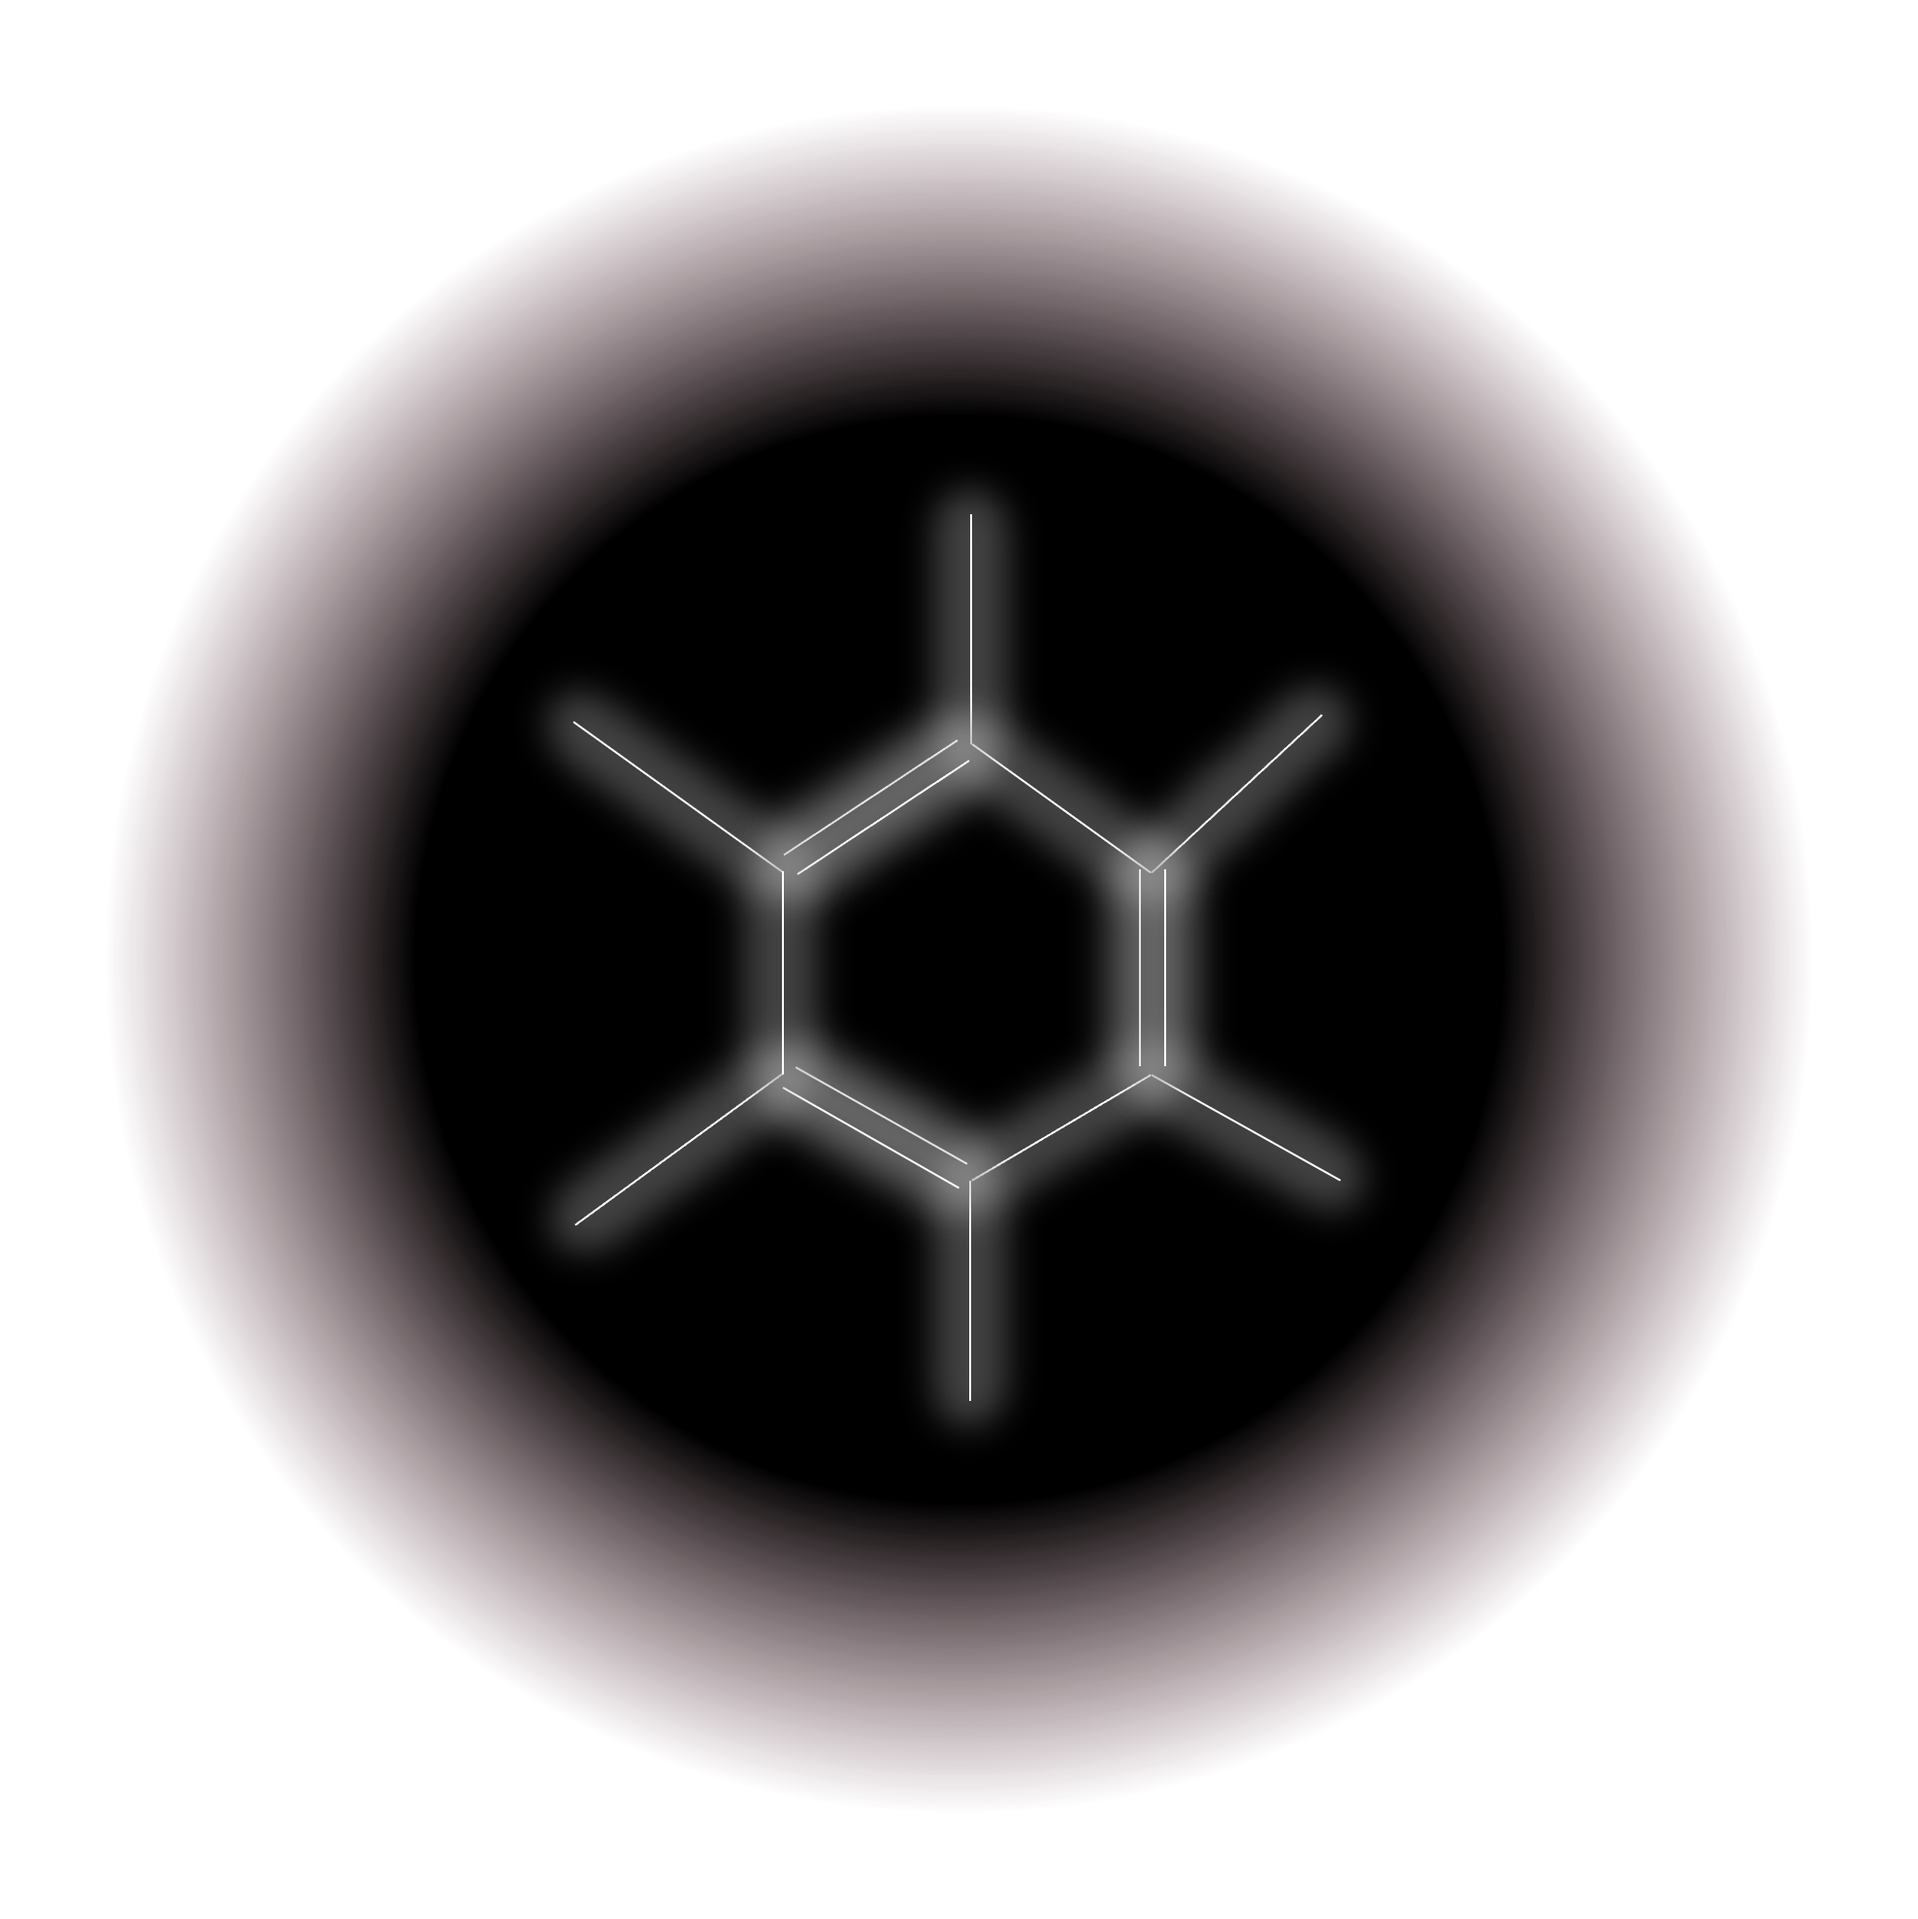
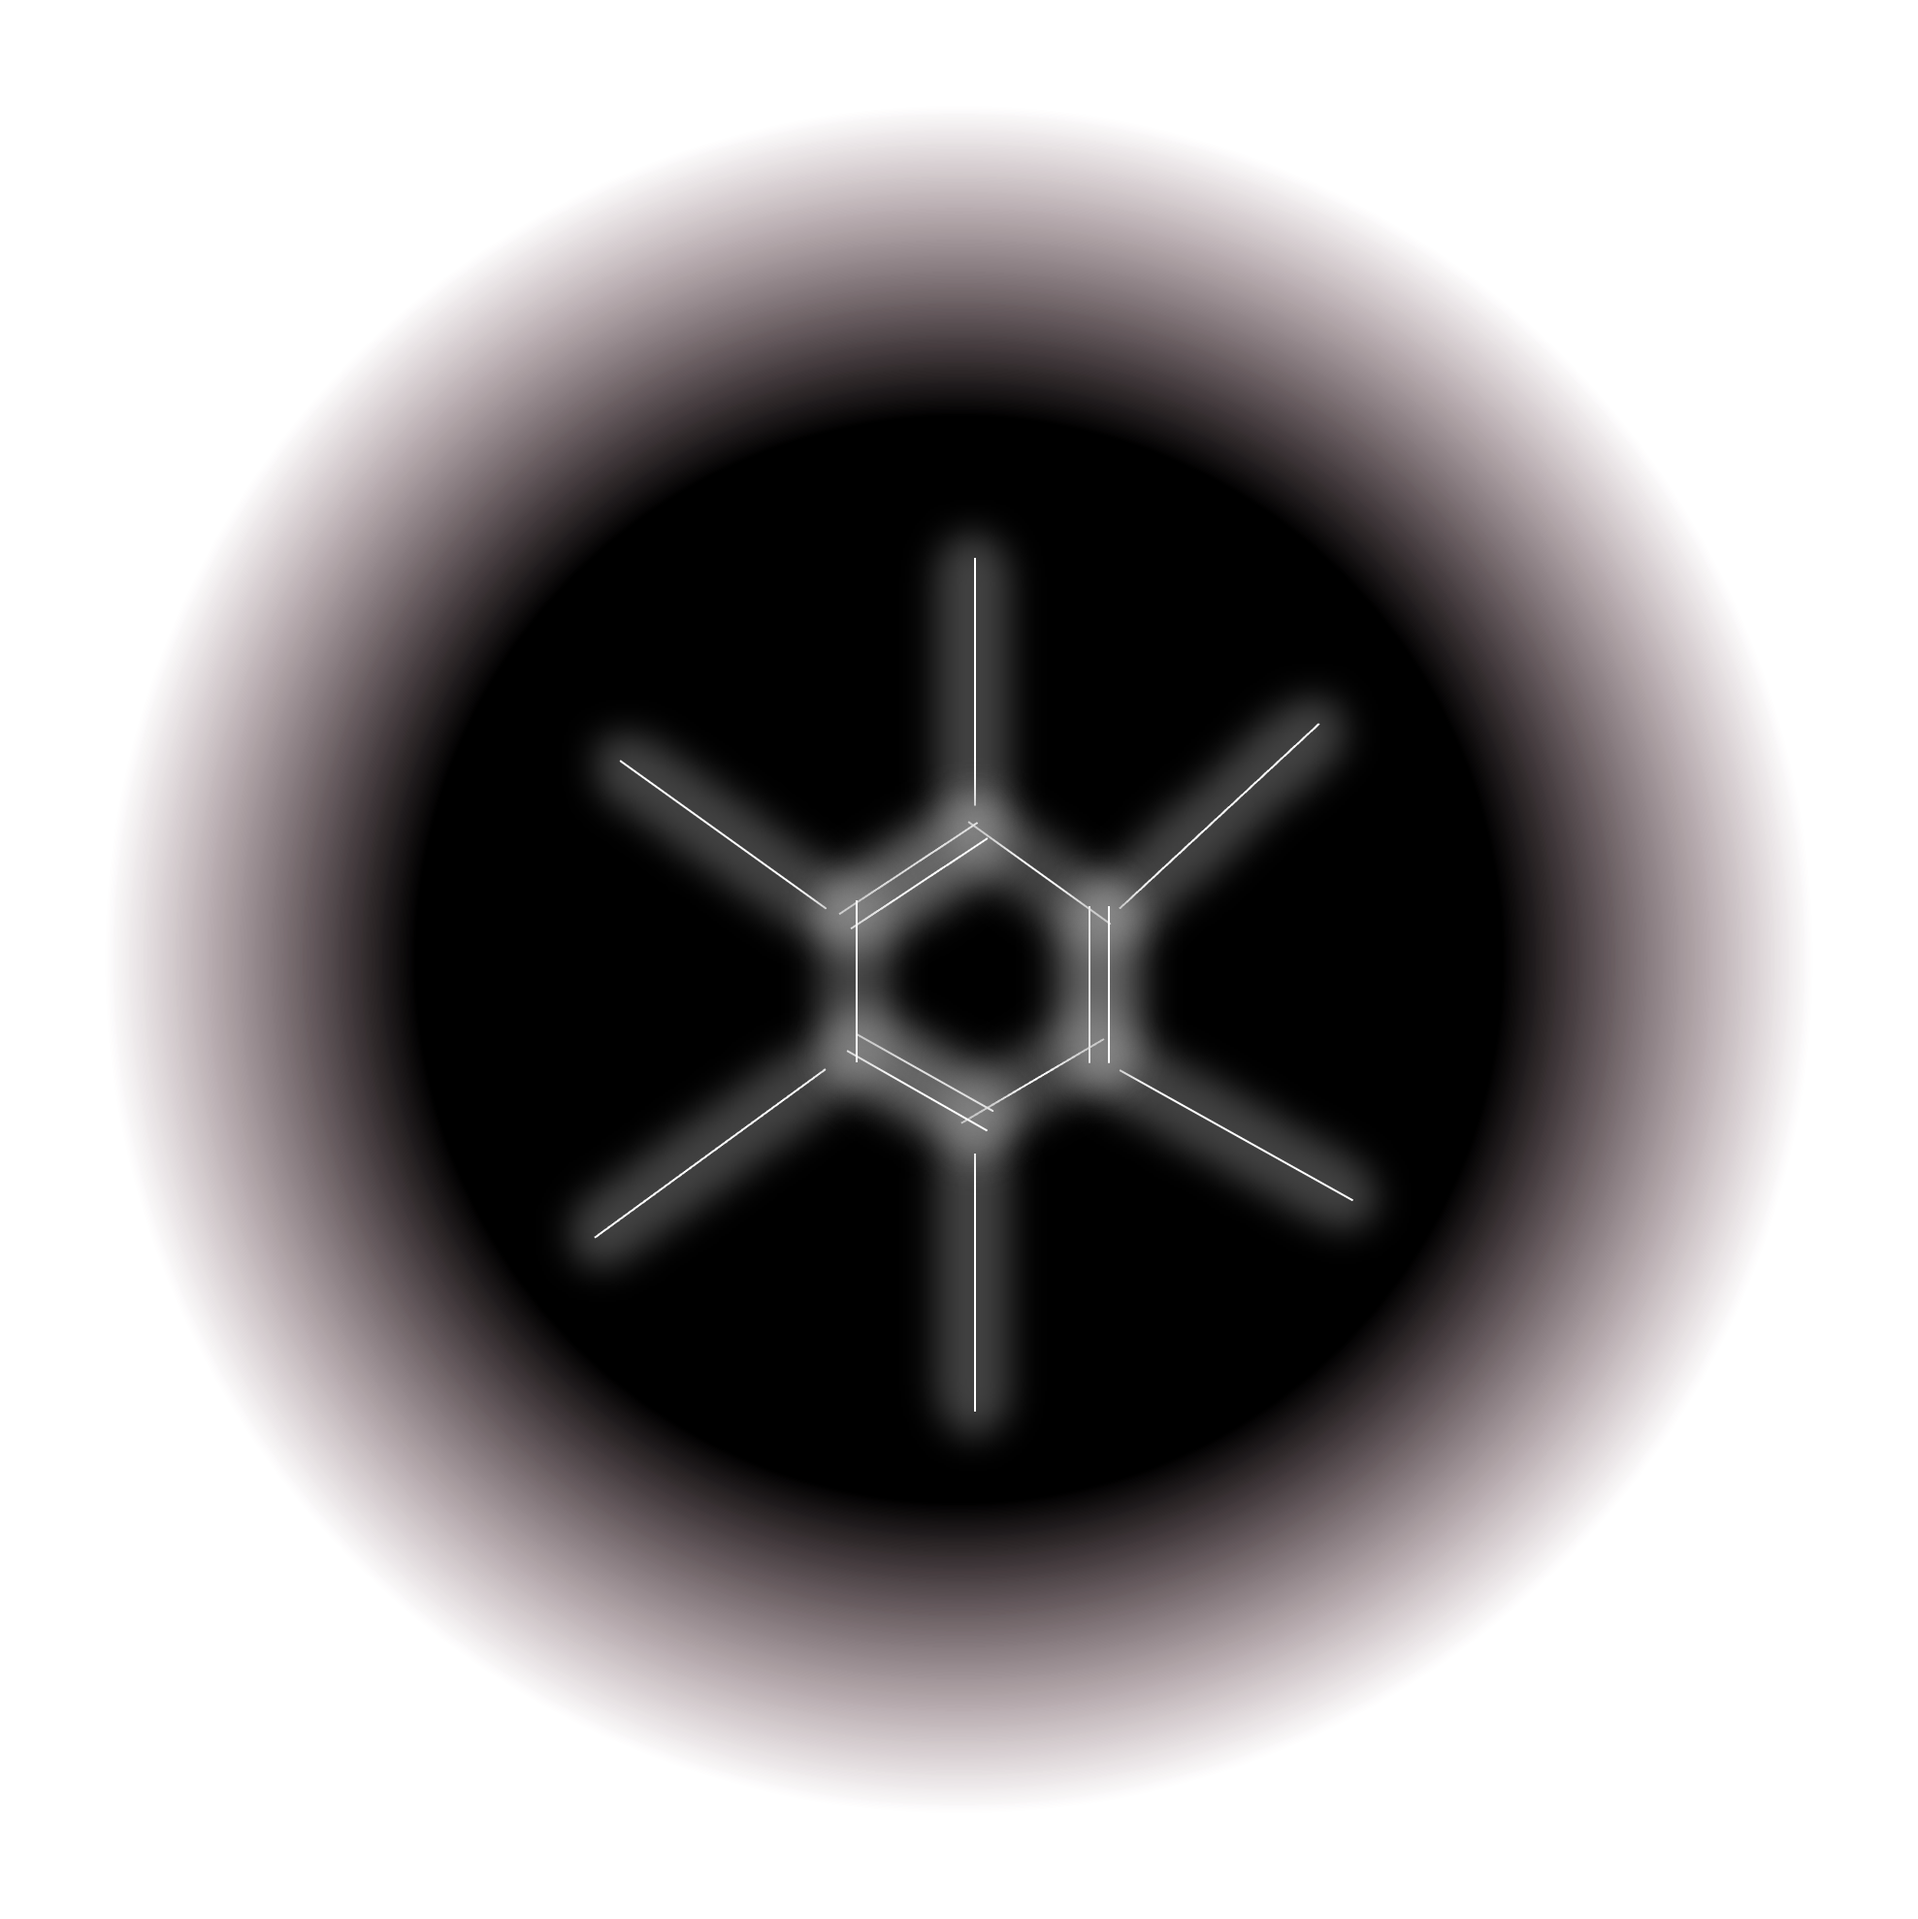
compounds

diff --git a/src/ui/styles/components/Graphic.css b/src/ui/styles/components/Graphic.css
@@ -305,6 +305,119 @@ img {
 
 
 
+.e18 {
+  left: 19.5vw;
+  top: 16vw;
+}
+
+.e19 {
+  left: 19.5vw;
+  top: 32vw;
+}
+
+.e20 {
+  left: 28.5vw;
+  top: 16vw;
+}
+
+.e21 {
+  left: 9vw;
+  top: 24vw;
+}
+
+.e22 {
+  left: 16.4vw;
+  top: 24vw;
+}
+
+.e23{
+  left: 31.2vw;
+  top: 24vw;
+}
+
+.e24 {
+  left: 31.2vw;
+  top: 32vw;
+}
+
+.e25 {
+  left: 16.4vw;
+  top: 16vw;
+}
+
+.e26 {
+  left: 38.6vw;
+  top: 24vw;
+}
+
+.e27 {
+  left: 16.4vw;
+  top: 32vw;
+}
+
+.e28 {
+  left: 31.2vw;
+  top: 16vw;
+}
+
+/* C6H6 */
+
+.e29 {
+  left: 23.8vw;
+  top: 15vw;
+}
+
+.e30 {
+  left: 23.8vw;
+  top: 24vw;
+}
+
+.e31 {
+  left: 23.8vw;
+  top: 24vw;
+}
+
+.e32 {
+  left: 23.8vw;
+  top: 24vw;
+}
+
+.e33 {
+  left: 31.2vw;
+  top: 16vw;
+}
+
+.e34 {
+  left: 31.2vw;
+  top: 16vw;
+}
+
+.e35 {
+  left: 31.2vw;
+  top: 16vw;
+}
+
+.e36 {
+  left: 31.2vw;
+  top: 16vw;
+}
+
+.e37 {
+  left: 31.2vw;
+  top: 16vw;
+}
+
+.e38 {
+  left: 31.2vw;
+  top: 16vw;
+}
+
+.e39 {
+  left: 31.2vw;
+  top: 16vw;
+}
+
+
 /* BACKGROUNDS */
 
 .SCl2 {

diff --git a/src/ui/pages/Game.tsx b/src/ui/pages/Game.tsx
@@ -9,6 +9,7 @@ import Graphic from '../components/Graphic';
 import LevelBar from '../components/LevelBar';
 import levelsConfig from '../../core/data/levels-config';
 import LevelStatus from "../../core/levels/LevelStatus";
+import Atom from '../components/Atom';
 
 
 const changeCurrentLevel : any = (previousLevels: any) => {
@@ -50,9 +51,11 @@ const Game: React.FC = () => {
             <div>
                 <TimeBar time={10000} speed={currentLevel!.speed} /> {/* tiempo en milisegundos */}
 
-                <Formula formula={compounds[15].formula} />
+                <Formula formula={compounds[14].formula} />
 
-                <Graphic activeComponent={compounds[15]} />
+                <Graphic activeComponent={compounds[14]} />
+
+                <Atom/>
 
                 <div className="atom-container"></div>
 

diff --git a/src/ui/components/compounds/C6H6.tsx b/src/ui/components/compounds/C6H6.tsx
@@ -4,9 +4,18 @@ import "../../styles/components/Graphic.css"
 export default function C6H6({ compound }:any) {
   return (
     <div className='graphic-container C6H6'>
-      <div className='element e1'></div>
-      <div className='element e2'></div>
-      <div className='element e3'></div>
+      <div className='element e29'></div>
+      <div className='element e30'></div>
+      <div className='element e31'></div>
+      <div className='element e32'></div>
+      <div className='element e33'></div>
+      <div className='element e34'></div>
+      <div className='element e35'></div>
+      <div className='element e36'></div>
+      <div className='element e37'></div>
+      <div className='element e38'></div>
+      <div className='element e39'></div>
+      <div className='element e40'></div>
     </div>
   )
 }

diff --git a/src/ui/components/compounds/CH3OCH3.tsx b/src/ui/components/compounds/CH3OCH3.tsx
@@ -4,9 +4,15 @@ import "../../styles/components/Graphic.css"
 export default function CH3OCH3({ compound }:any) {
   return (
     <div className='graphic-container CH3OCH3'>
-      <div className='element e1'></div>
       <div className='element e2'></div>
-      <div className='element e3'></div>
+      <div className='element e21'></div>
+      <div className='element e22'></div>
+      <div className='element e23'></div>
+      <div className='element e24'></div>
+      <div className='element e25'></div>
+      <div className='element e26'></div>
+      <div className='element e27'></div>
+      <div className='element e28'></div>
     </div>
     
   )

diff --git a/src/ui/components/compounds/SF6.tsx b/src/ui/components/compounds/SF6.tsx
@@ -7,6 +7,11 @@ export default function SF6({ compound }:any) {
       <div className='element e1'></div>
       <div className='element e2'></div>
       <div className='element e3'></div>
+
+      <div className='element e18'></div>
+      <div className='element e19'></div>
+      <div className='element e20'></div>
+      <div className='element e21'></div>
     </div>
     
   )
